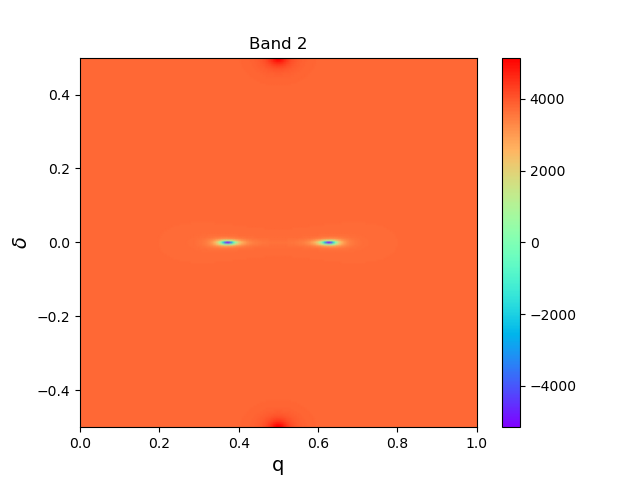
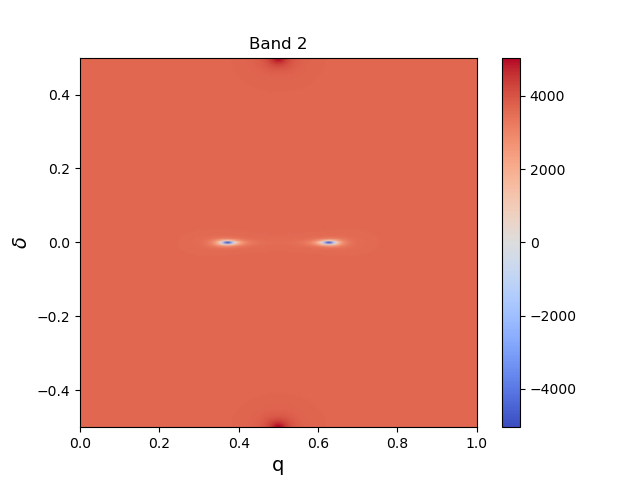
Change 3D plot colormap to coolwarm

diff --git a/Effective_Models/1p1D-1Dgrat2L_k_delta-ChernNumber.py b/Effective_Models/1p1D-1Dgrat2L_k_delta-ChernNumber.py
@@ -83,7 +83,7 @@ def main():
     v = 1.0/(2.0*np.pi*ng)
 
     ### Array of genuine momenta 
-    Nk = 251
+    Nk = 201
     Kmax = 0.5
     k_array = np.linspace(-Kmax,Kmax,Nk)
 
@@ -125,100 +125,46 @@ def main():
 
     ### Plot the figure 
     X,Y = np.meshgrid(k_array+0.5,delta_array) 
+    cmap = 'coolwarm'
 
     maxabs = abs(F_array).max() 
     vmin, vmax = -maxabs, maxabs 
     norm = colors.Normalize(vmin=vmin,vmax=vmax)
 
-    cmap = 'rainbow'
-
-    """
     for i in range(4):
         fig,ax = plt.subplots()
-        ax.pcolormesh(X,Y,Berry_curvature[:,:,i].T,shading='gouraud',cmap=cmap)
+        ax.pcolormesh(X,Y,F_array[:,:,i].T,shading='gouraud',cmap=cmap)
         ax.set_xlabel('q',fontsize=14)
         ax.set_ylabel(r'$\delta$',fontsize=14)
         ax.set_title('Band '+str(i+1))
         fig.colorbar(cm.ScalarMappable(norm=norm,cmap=cmap),ax = ax)
         plt.savefig('Berry_curvature_Band_'+str(i+1)+'.png')
-    """
-    fig,ax = plt.subplots()
-    ax.pcolormesh(X,Y,F_array[:,:,0].T,shading='gouraud',cmap=cmap)
-    ax.set_xlabel('q',fontsize=14)
-    ax.set_ylabel(r'$\delta$',fontsize=14)
-    ax.set_title('Band 1')
-    fig.colorbar(cm.ScalarMappable(norm=norm,cmap=cmap),ax = ax)
-    plt.savefig('Berry_curvature_Band_1.png')
 
-    fig,ax = plt.subplots()
-    ax.pcolormesh(X,Y,F_array[:,:,1].T,shading='gouraud',cmap=cmap)
-    ax.set_xlabel('q',fontsize=14)
-    ax.set_ylabel(r'$\delta$',fontsize=14)
-    ax.set_title('Band 2')
-    fig.colorbar(cm.ScalarMappable(norm=norm,cmap=cmap),ax = ax)
-    plt.savefig('Berry_curvature_Band_2.png')
-
-    fig,ax = plt.subplots()
-    ax.pcolormesh(X,Y,F_array[:,:,2].T,shading='gouraud',cmap=cmap)
-    ax.set_xlabel('q',fontsize=14)
-    ax.set_ylabel(r'$\delta$',fontsize=14)
-    ax.set_title('Band 3')
-    fig.colorbar(cm.ScalarMappable(norm=norm,cmap=cmap),ax = ax)
-    plt.savefig('Berry_curvature_Band_3.png')
-
-    fig,ax = plt.subplots()
-    ax.pcolormesh(X,Y,F_array[:,:,3].T,shading='gouraud',cmap=cmap)
-    ax.set_xlabel('q',fontsize=14)
-    ax.set_ylabel(r'$\delta$',fontsize=14)
-    ax.set_title('Band 4')
-    fig.colorbar(cm.ScalarMappable(norm=norm,cmap=cmap),ax = ax)
-    plt.savefig('Berry_curvature_Band_4.png')
-
-    ### Plot the dispersion surface with Berry curvature 
-    rgb = np.tile([1.0,1.0,1.0],(Ndelta,Nk,1))
-
-    """
-    ls = LightSource(azdeg=225,altdeg=30)
-    illuminated_surface1 = ls.shade_rgb(rgb,Berry_curvature[:,:,0].T)
-    illuminated_surface2 = ls.shade_rgb(rgb,Berry_curvature[:,:,1].T)
-    illuminated_surface3 = ls.shade_rgb(rgb,Berry_curvature[:,:,2].T)
-    illuminated_surface4 = ls.shade_rgb(rgb,Berry_curvature[:,:,3].T)
-
-    fig,ax = plt.subplots(subplot_kw={'projection':'3d'})    
-    ax.plot_surface(X,Y,Energy[:,:,0].T,linewidth=0.01,
-                    facecolors=illuminated_surface1,cmap=cmap)
-    ax.plot_surface(X,Y,Energy[:,:,1].T,linewidth=0.01,
-                    facecolors=illuminated_surface2,cmap=cmap)
-    ax.plot_surface(X,Y,Energy[:,:,2].T,linewidth=0.01,
-                    facecolors=illuminated_surface3,cmap=cmap)
-    ax.plot_surface(X,Y,Energy[:,:,3].T,linewidth=0.01,
-                    facecolors=illuminated_surface4,cmap=cmap)
-    ax.set_xlabel(r'$k a / (2 \ pi)$',fontsize=14)
-    ax.set_ylabel(r'$\delta$',fontsize=14)
-    fig.colorbar(cm.ScalarMappable(norm=norm,cmap=cmap),
-                 orientation='vertical',
-                 shrink=0.4,
-                 ax = ax)
-    plt.savefig('Bands.png')    
-    plt.show()
-    """
-
-    fig,ax = plt.subplots(subplot_kw={'projection':'3d'}) 
+    ### Plot the dispersion surface with Berry curvature    
+    maxabs = abs(F_array).max() 
+    F_array_3D = np.sinh(20.0*F_array/maxabs)
+    vmin, vmax = -1, 1 
+    norm = colors.Normalize(vmin=vmin,vmax=vmax)
     scamap = plt.cm.ScalarMappable(norm=norm,cmap=cmap)
-    fcolors1 = scamap.to_rgba(F_array[:,:,0].T)   
-    ax.plot_surface(X,Y,Energy_array[:,:,0].T,linewidth=1e-7,
+
+    linewidth=0 
+
+    fig,ax = plt.subplots(subplot_kw={'projection':'3d'})
+    
+    fcolors1 = scamap.to_rgba(F_array_3D[:,:,0].T)   
+    ax.plot_surface(X,Y,Energy_array[:,:,0].T,linewidth=linewidth,
                     facecolors=fcolors1,cmap=cmap)
 
-    fcolors2 = scamap.to_rgba(F_array[:,:,1].T)  
-    ax.plot_surface(X,Y,Energy_array[:,:,1].T,linewidth=1e-7,
+    fcolors2 = scamap.to_rgba(F_array_3D[:,:,1].T)  
+    ax.plot_surface(X,Y,Energy_array[:,:,1].T,linewidth=linewidth,
                     facecolors=fcolors2,cmap=cmap)
     
-    fcolors3 = scamap.to_rgba(F_array[:,:,2].T)  
-    ax.plot_surface(X,Y,Energy_array[:,:,2].T,linewidth=1e-7,
+    fcolors3 = scamap.to_rgba(F_array_3D[:,:,2].T)  
+    ax.plot_surface(X,Y,Energy_array[:,:,2].T,linewidth=linewidth,
                     facecolors=fcolors3,cmap=cmap)
     
-    fcolors4 = scamap.to_rgba(F_array[:,:,3].T)  
-    ax.plot_surface(X,Y,Energy_array[:,:,3].T,linewidth=1e-7,
+    fcolors4 = scamap.to_rgba(F_array_3D[:,:,3].T)  
+    ax.plot_surface(X,Y,Energy_array[:,:,3].T,linewidth=linewidth,
                     facecolors=fcolors4,cmap=cmap)
     
     ax.set_xlabel(r'$k a / (2 \ pi)$',fontsize=14)
@@ -228,7 +174,8 @@ def main():
                  shrink=0.4,
                  ax = ax)
     plt.savefig('Bands.png')    
+    ax.view_init(elev=5,azim=45,roll=0)
     plt.show()
-
+    
 if __name__ == '__main__':
     main()
